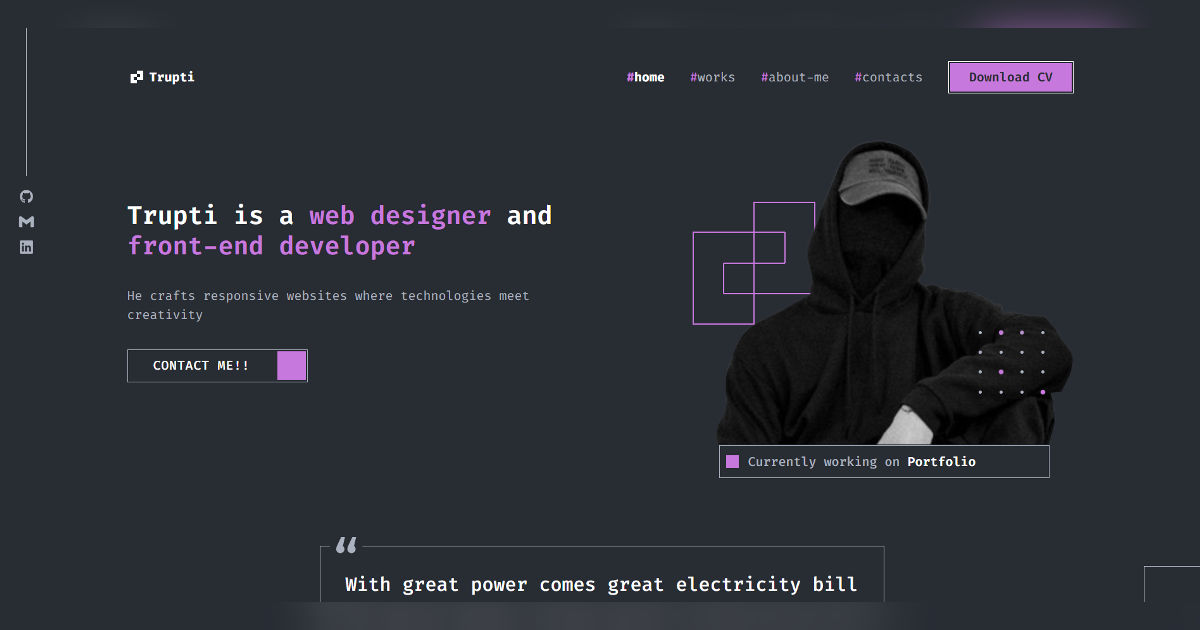
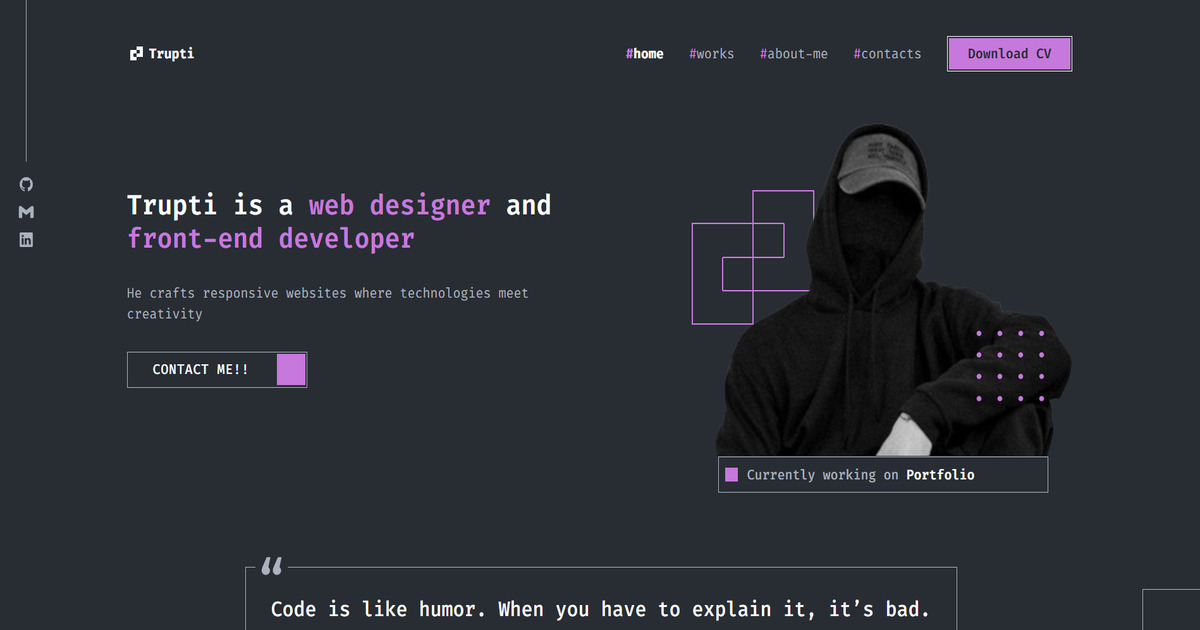
fix the responsive

diff --git a/src/components/Contact.jsx b/src/components/Contact.jsx
@@ -4,29 +4,41 @@ import Gmail from '../assets/icons/Gmail';
 
 const Contact = () => {
   return (
-    <section id='contact' className=" scroll-mt-20 mx-auto p-4 sm:flex sm:max-w-[1200px] sm:flex-col sm:px-0">
+    <section
+      id="contact"
+      className="mx-auto scroll-mt-20 p-4 sm:flex sm:max-w-[1200px] sm:flex-col sm:px-0"
+    >
       {/* Title Section of Contact */}
       <div className="mb-10 flex w-full flex-col items-start justify-center gap-5 md:flex-row md:items-center md:justify-start">
-        <h2 className="text-[28px] text-white md:text-[32px] font-medium">
+        <h2 className="text-[28px] font-medium text-white md:text-[32px]">
           <span className="text-primary">#</span>contacts
         </h2>
         <div className="bg-primary h-[1px] w-[240px] md:w-[239px]"></div>
       </div>
 
-      <div className='flex md:flex-row flex-col justify-between gap-10'>
-        <p className="text-gray md:w-[520px] font-medium">
+      <div className="flex flex-col justify-between gap-10 md:flex-row">
+        <p className="text-gray font-medium md:w-[520px]">
           I’m interested in freelance opportunities. However, if you have other
           request or question, don’t hesitate to contact me
         </p>
-        <div className='text-gray flex flex-col gap-3 border border-gray w-fit p-4'>
-          <h2 className='font-semibold'>message me here</h2>
-          <a href="#" className="flex w-fit items-center justify-center gap-2">
+        <div className="text-gray border-gray flex w-fit flex-col gap-3 border p-4">
+          <h2 className="font-semibold">message me here</h2>
+          <a
+            href="https://wa.me/916372748322?text=Hello%20Trupti,%20I%20saw%20your%20portfolio%20and%20want%20to%20connect."
+            target="_blank"
+            className="flex w-fit items-center justify-center gap-2"
+          >
             <span>
               <Whatsapp />
             </span>
             whatsapp
           </a>
-          <a href="#" className="flex w-fit items-center justify-center gap-2">
+          <a
+            href="mailto:truptiranjan272@gmail.com"
+            target="_blank"
+            rel="noopener noreferrer"
+            className="flex w-fit items-center justify-center gap-2"
+          >
             <span>
               <Gmail className="h-6 w-6" />
             </span>

diff --git a/src/components/Projects/Projects.jsx b/src/components/Projects/Projects.jsx
@@ -5,25 +5,24 @@ import projectsData from '../../data/data.js'; // adjust path as needed
 
 const Projects = () => {
   return (
-    <section id='works' className="scroll-mt-20 relative mx-auto p-4 pt-[60px] sm:flex sm:max-w-[1200px] sm:flex-col sm:items-center sm:px-0">
+    <section
+      id="works"
+      className="relative mx-auto w-full scroll-mt-20 p-4 pt-[60px] sm:flex sm:max-w-[1200px] sm:flex-col sm:items-center sm:px-0"
+    >
       {/* Title of the projects section */}
-      <div className="flex w-full items-start justify-center md:items-center md:justify-between">
-        <div className="flex flex-col gap-5 md:flex-row md:items-center">
+      <div className='flex flex-col gap-5'>
+        <div className="flex items-center justify-between">
           <h2 className="text-[28px] font-medium text-white md:text-[32px]">
             <span className="text-primary">#</span>projects
           </h2>
-          <div className="bg-primary h-[1px] w-[245px] md:w-[511px]"></div>
+          <a href="#" className="text-white">
+            View all ~~{'>'}
+          </a>
         </div>
-
-        <a
-          href="#"
-          className="after:bg-primary font-medium relative mt-2 text-white after:absolute after:bottom-0 after:left-0 after:h-[2px] after:w-0 after:transition-all after:duration-300 hover:after:w-full focus:after:w-0 active:after:w-0 md:mt-0"
-        >
-          View all ~~{'>'}
-        </a>
+        <div className='h-[2px] w-3/5 bg-primary '></div>
       </div>
-
-      <div className="mt-10 flex flex-col flex-wrap items-start justify-between gap-7 md:w-full md:flex-row">
+      {/* after:bg-primary w-fit h-fit border font-medium text-white after:absolute after:bottom-0 after:left-0 after:h-[2px] after:w-0 after:transition-all after:duration-300 hover:after:w-full focus:after:w-0 active:after:w-0 md:mt-0 */}
+      <div className="mt-10 flex flex-col flex-wrap items-center justify-between gap-7 md:w-full md:flex-row">
         {projectsData.map((project, index) => (
           <ProjectCard
             key={index}

diff --git a/index.html b/index.html
@@ -14,8 +14,8 @@
     <meta property="og:title" content="Trupti Ranjan | Frontend Developer Portfolio" />
     <meta property="og:description" content="Explore React projects, skills, and modern web solutions by Trupti Ranjan." />
     <meta property="og:type" content="website" />
-    <meta property="og:url" content="https://portfolio-trupti-ranjans-projects.vercel.app/" />
-    <meta property="og:image" content="https://portfolio-trupti-ranjans-projects.vercel.app/preview.jpg" />
+    <meta property="og:url" content="https://portfolio-alpha-woad-g5nu3q8wmc.vercel.app/" />
+    <meta property="og:image" content="https://portfolio-alpha-woad-g5nu3q8wmc.vercel.app/preview.jpg" />
     <meta property="og:image:width" content="1200" />
     <meta property="og:image:height" content="630" />
     <meta property="og:site_name" content="Trupti Ranjan Portfolio" />
@@ -24,7 +24,7 @@
     <meta name="twitter:card" content="summary_large_image" />
     <meta name="twitter:title" content="Trupti Ranjan | Frontend Developer Portfolio" />
     <meta name="twitter:description" content="Frontend developer portfolio showcasing React projects, skills, and modern web solutions." />
-    <meta name="twitter:image" content="https://portfolio-trupti-ranjans-projects.vercel.app/preview.jpg" />
+    <meta name="twitter:image" content="https://portfolio-alpha-woad-g5nu3q8wmc.vercel.app/preview.jpg" />
 
     <!-- Robots -->
     <meta name="robots" content="index, follow" />

diff --git a/src/components/skills/Skills.jsx b/src/components/skills/Skills.jsx
@@ -28,7 +28,7 @@ const Skills = () => {
     },
   ];
   return (
-    <section className="mx-auto p-4 pt-[60px] sm:flex sm:max-w-[1200px] sm:flex-col sm:items-center sm:px-0">
+    <section className="mx-auto mb-10 lg:mb-0 p-4 pt-[60px] sm:flex sm:max-w-[1200px] sm:flex-col sm:items-center sm:px-0">
       {/* Title Section of Skills */}
       <div className="mb-10 flex w-full flex-col items-start justify-center gap-5 md:flex-row md:items-center md:justify-start">
         <h2 className="text-[28px] font-medium text-white md:text-[32px]">
@@ -37,7 +37,7 @@ const Skills = () => {
         <div className="bg-primary h-[1px] w-[240px] md:w-[239px]"></div>
       </div>
 
-      <div className="flex h-[500px] w-full gap-16 md:h-[400px]">
+      <div className="flex h-auto w-full gap-16 md:h-[400px]">
         <div className="relative hidden w-2/5 sm:block">
           <span className="absolute top-6 left-8">
             <Dot5X5 />
@@ -56,7 +56,7 @@ const Skills = () => {
           </span>
         </div>
 
-        <div className="text-gray flex flex-row flex-wrap content-start gap-10 sm:pr-0 sm:pl-0 sm:text-[14px] md:ml-17 md:w-3/5 md:justify-end">
+        <div className="flex w-3/5 flex-wrap lg:justify-end gap-5 md:h-[250px] lg:h-[300px]">
           {skillsData.map((skill, index) => (
             <SkillCard
               key={index}

diff --git a/src/data/data.js b/src/data/data.js
@@ -4,16 +4,6 @@ import projectimage3 from '../assets/images/project3.svg';
 
 const projectsData = [
   {
-    img: projectimage1,
-    techStack: 'JAVASCRIPT REACT GSAP ',
-    title: 'Trinacria',
-    description: 'Modern UI with GSAP',
-    live: true,
-    cached: false,
-    livelink: "https://animated-trnacria.vercel.app/",
-    cachedlink: ""
-  },
-  {
     img: projectimage2,
     techStack: 'HTML TAILWIND REACT LENIS',
     title: 'Portfolio',
@@ -21,6 +11,16 @@ const projectsData = [
     live: true,
     cached: false,
     livelink: "https://portfolio-alpha-woad-g5nu3q8wmc.vercel.app/",
+    cachedlink: ""
+  },
+  {
+    img: projectimage1,
+    techStack: 'JAVASCRIPT REACT GSAP ',
+    title: 'Trinacria',
+    description: 'Modern UI with GSAP',
+    live: true,
+    cached: false,
+    livelink: "https://animated-trnacria.vercel.app/",
     cachedlink: ""
   },
   {

diff --git a/src/components/HeroSection.jsx b/src/components/HeroSection.jsx
@@ -62,7 +62,7 @@ const HeroSection = () => {
         <div className="border-gray relative border p-8">
           <img src={doublequoats} alt="" className="absolute -top-4 left-3" />
           <p className="text-xl text-white sm:text-2xl font-medium">
-            With great power comes great electricity bill
+            Code is like humor. When you have to explain it, it’s bad.
           </p>
           <img
             src={doublequoats}

diff --git a/src/components/Projects/ProjectCard.jsx b/src/components/Projects/ProjectCard.jsx
@@ -11,7 +11,7 @@ const ProjectCard = ({
   cachedlink,
 }) => {
   return (
-    <div className="border-gray w-[360px] border md:w-[332px]">
+    <div className="border-gray w-full border md:w-[332px]">
       <img src={img} alt="" className="w-full object-cover" />
       <p className="text-gray border-gray border-y px-2 py-2 text-[12px] font-normal md:text-lg">
         {techStack}

diff --git a/src/components/Footer.jsx b/src/components/Footer.jsx
@@ -38,7 +38,7 @@ const Footer = () => {
 
         {/* Copyright */}
         <div className="mt-6 text-gray text-center">
-          <p className='relative'><span className='font-medium absolute top-0.5 -left-4'>©</span> Copyright {new Date().getFullYear()} Made by Trupti</p>
+          <p className='relative'>Made by Trupti</p>
         </div>
       </div>
     </footer>
